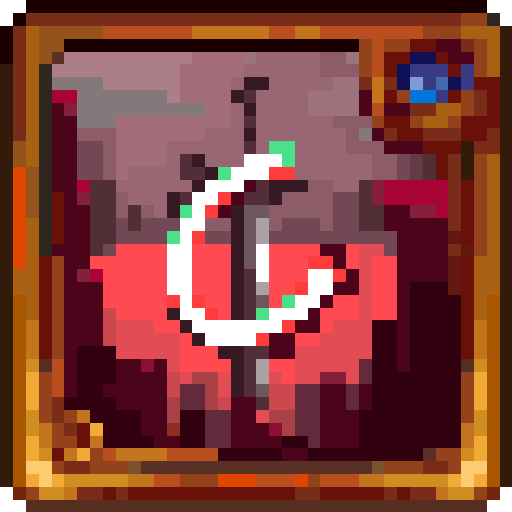
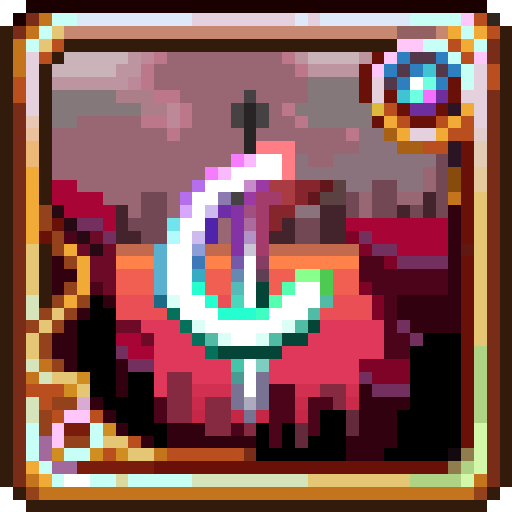
更换icon，修复一些问题

diff --git a/Content/Projectiles/Boss/SkeletronPrime/SetPosingStarm.cs b/Content/Projectiles/Boss/SkeletronPrime/SetPosingStarm.cs
@@ -52,15 +52,14 @@ namespace CalamityOverhaul.Content.Projectiles.Boss.SkeletronPrime
                         p.Kill();
                     }
                 }
-                if (!VaultUtils.isClient) {
-                    Projectile.NewProjectile(Projectile.GetSource_FromAI(), Projectile.Center + new Vector2(-2200, 0)
-                        , new Vector2(53, 0), ModContent.ProjectileType<Mechanicalworm>(), Projectile.damage, 2, -1);
-                    Projectile.NewProjectile(Projectile.GetSource_FromAI(), Projectile.Center + new Vector2(0, 2200)
-                        , new Vector2(0, -53), ModContent.ProjectileType<Mechanicalworm>(), Projectile.damage, 2, -1);
 
-                    Projectile.NewProjectile(Projectile.GetSource_FromAI(), Projectile.Center
-                        , new Vector2(0, 10), ModContent.ProjectileType<CrossPrediction>(), Projectile.damage, 2, -1);
-                }
+                Projectile.NewProjectile(Projectile.GetSource_FromAI(), Projectile.Center + new Vector2(-2200, 0)
+                        , new Vector2(53, 0), ModContent.ProjectileType<Mechanicalworm>(), Projectile.damage, 2, -1);
+                Projectile.NewProjectile(Projectile.GetSource_FromAI(), Projectile.Center + new Vector2(0, 2200)
+                    , new Vector2(0, -53), ModContent.ProjectileType<Mechanicalworm>(), Projectile.damage, 2, -1);
+
+                Projectile.NewProjectile(Projectile.GetSource_FromAI(), Projectile.Center
+                    , new Vector2(0, 10), ModContent.ProjectileType<CrossPrediction>(), Projectile.damage, 2, -1);
             }
 
             if (Projectile.ai[0] % 15 == 0 && Projectile.ai[0] > 45 && Projectile.ai[0] <= 365) {

diff --git a/Content/NPCs/BrutalNPCs/BrutalSkeletronPrime/HeadPrimeAI.cs b/Content/NPCs/BrutalNPCs/BrutalSkeletronPrime/HeadPrimeAI.cs
@@ -345,6 +345,7 @@ namespace CalamityOverhaul.Content.NPCs.BrutalNPCs.BrutalSkeletronPrime
         private void ThisFromeFindPlayer() {
             if (TargetPlayerIsActive()) {
                 npc.TargetClosest();
+                player = Main.player[npc.target];
                 //在Boss完成登场表演前不要去切换脱战行为，所以这里判断一下npc.ai0，
                 //防止Boss在初始化阶段或者出场阶段时，因为生成距离过远等原因而被判定脱战
                 if (npc.ai[0] > 1 && TargetPlayerIsActive()) {
@@ -542,9 +543,11 @@ namespace CalamityOverhaul.Content.NPCs.BrutalNPCs.BrutalSkeletronPrime
                     npc.ai[1] = 1f;
                     calNPC.newAI[0]++;
                     if (!VaultUtils.isClient && calNPC.newAI[0] >= 2) {
-                        int damage = SetMultiplier(npc.defDamage / 3);
-                        Projectile.NewProjectile(npc.GetSource_FromAI(), player.Center, new Vector2(0, 0)
-                            , ModContent.ProjectileType<SetPosingStarm>(), damage, 2, -1, 0, npc.whoAmI);
+                        if (CWRUtils.FindNPCFromeType(NPCID.TheDestroyer) == null) {
+                            int damage = SetMultiplier(npc.defDamage / 3);
+                            Projectile.NewProjectile(npc.GetSource_FromAI(), player.Center, new Vector2(0, 0)
+                                , ModContent.ProjectileType<SetPosingStarm>(), damage, 2, -1, 0, npc.whoAmI);
+                        }
                         calNPC.newAI[0] = 0;
                         ai11++;
                         SendExtraAI(npc);

diff --git a/Content/Projectiles/Boss/MechanicalEye/Fireball.cs b/Content/Projectiles/Boss/MechanicalEye/Fireball.cs
@@ -55,7 +55,7 @@ namespace CalamityOverhaul.Content.Projectiles.Boss.MechanicalEye
         }
 
         public override void OnHitPlayer(Player target, Player.HurtInfo info) {
-            target.AddBuff(ModContent.BuffType<HellburnBuff>(), 60);
+            target.AddBuff(BuffID.OnFire3, 60);
         }
 
         public override bool PreDraw(ref Color lightColor) {

diff --git a/Content/Projectiles/Boss/MechanicalEye/Laser.cs b/Content/Projectiles/Boss/MechanicalEye/Laser.cs
@@ -44,7 +44,7 @@ namespace CalamityOverhaul.Content.Projectiles.Boss.MechanicalEye
         }
 
         public override void OnHitPlayer(Player target, Player.HurtInfo info) {
-            target.AddBuff(ModContent.BuffType<HellburnBuff>(), 60);
+            target.AddBuff(BuffID.OnFire3, 60);
         }
 
         public override bool PreDraw(ref Color lightColor) {

diff --git a/Content/Projectiles/Boss/SkeletronPrime/Mechanicalworm.cs b/Content/Projectiles/Boss/SkeletronPrime/Mechanicalworm.cs
@@ -23,6 +23,7 @@ namespace CalamityOverhaul.Content.Projectiles.Boss.SkeletronPrime
             Projectile.penetrate = -1;
             Projectile.timeLeft = 380;
             Projectile.alpha = 0;
+            CooldownSlot = ImmunityCooldownID.Bosses;
         }
 
         public override void AI() {
